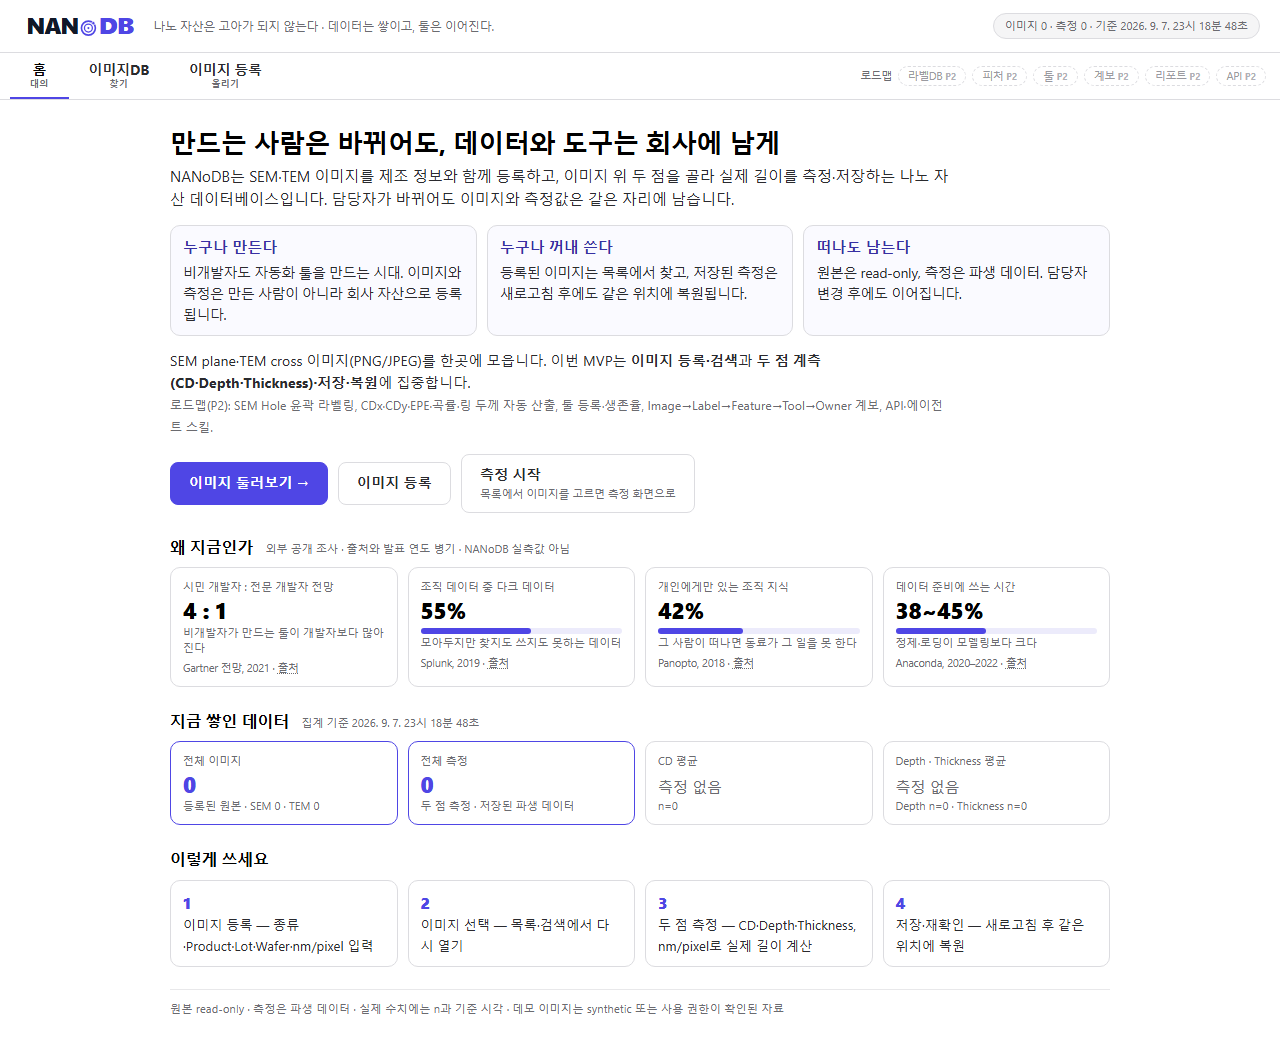
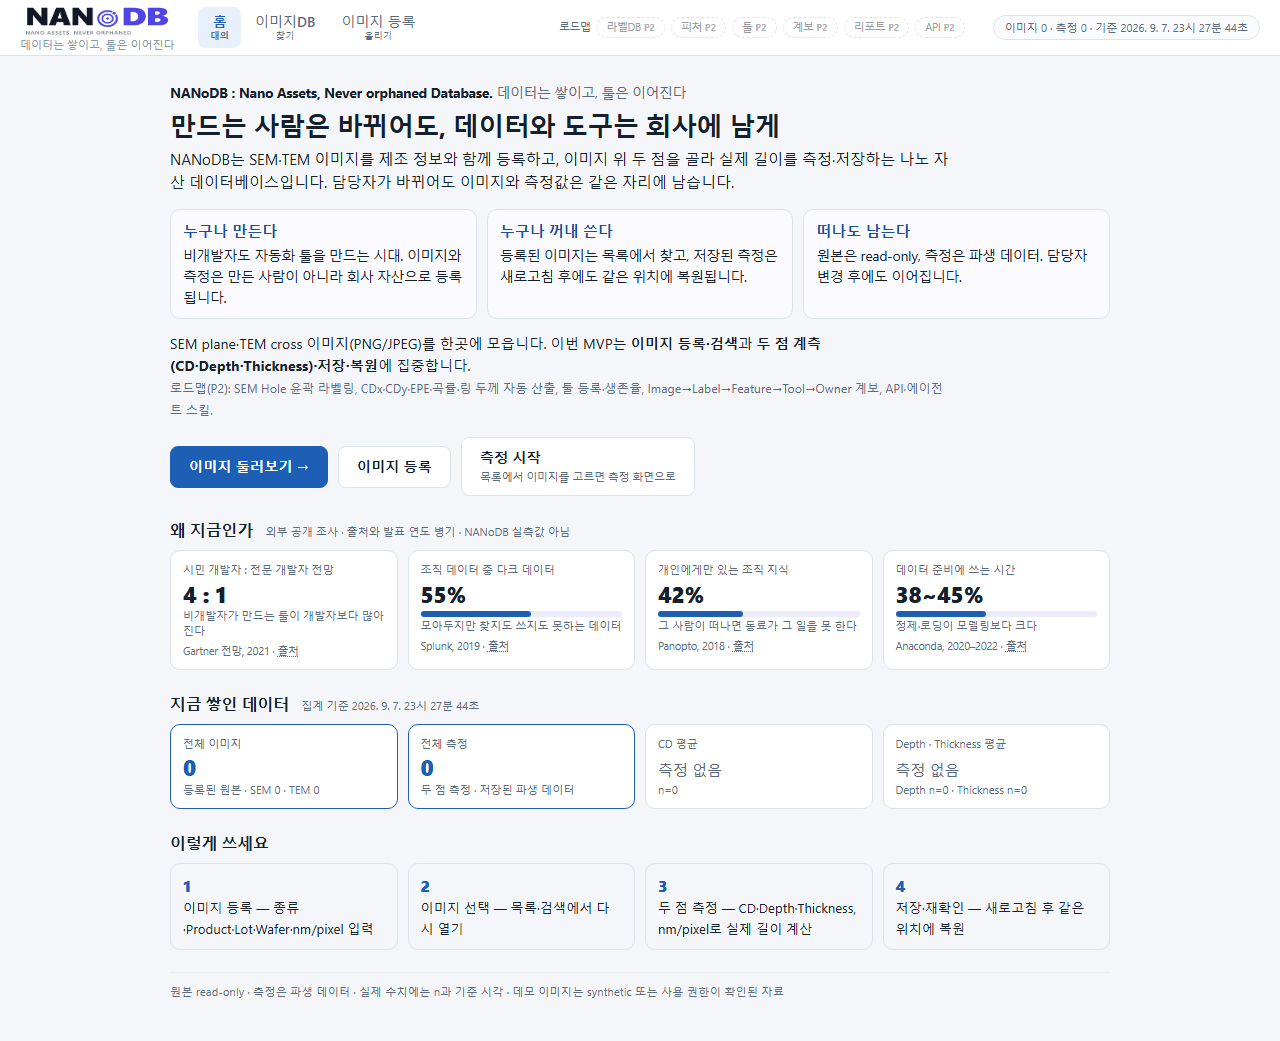
docs(home): follow existing nanodb chrome; drop literal Korean tagline; add live capture
- HOM-002 amended: brand line 'NANoDB : Nano Assets, Never orphaned Database.' + subtitle only
- HOM-004: header/nav keep the existing nanodb app chrome; Home is added as first item
- mockup restyled to app.css tokens (#1d5fb4, 56px topbar); home-live.png + home.reference.js added

diff --git a/requirements/home-tab/home.reference.js b/requirements/home-tab/home.reference.js
@@ -1,0 +1,142 @@
+// Home tab for the hackathon review. Keeps the existing chrome (topbar, mainnav, panel/stat
+// primitives) and only adds a landing page: mission → evidence → what works today → live KPIs
+// → how to use → data policy. Every number in the KPI panels comes from the API; public survey
+// figures are static content and always carry their source and year.
+import { analysis, images as imageApi } from '../api.js';
+import { store } from '../store.js';
+import * as ui from '../ui.js';
+import { el, fmt, fmtDate, loading, mount } from '../ui.js';
+
+const BRAND = {
+  expansion: 'NANoDB : Nano Assets, Never orphaned Database.',
+  subtitle: '데이터는 쌓이고, 툴은 이어진다',
+  headline: '만드는 사람은 바뀌어도, 데이터와 도구는 회사에 남게',
+  lead: 'SEM·TEM 이미지를 제조 정보와 함께 등록하고, 이미지 위에서 측정한 값을 원본·측정자·방법·위치까지 역추적할 수 있게 보관합니다. 담당자가 바뀌어도 이미지와 측정값은 같은 자리에 남습니다.',
+};
+
+const VALUES = [
+  ['누구나 만든다', '비개발자도 자동화 툴을 만드는 시대. 이미지와 측정은 만든 사람이 아니라 회사 자산으로 등록됩니다.'],
+  ['누구나 꺼내 쓴다', '등록된 이미지는 카탈로그에서 찾고, 저장된 측정은 다시 열어도 같은 위치에 복원됩니다.'],
+  ['떠나도 남는다', '원본은 read-only, 측정은 파생 데이터. draft → review → approved 이력이 revision으로 남습니다.'],
+];
+
+// Static, externally published figures. Never mixed with NANoDB measurements.
+const EVIDENCE = [
+  { value: '4 : 1', title: '시민 개발자 : 전문 개발자 전망', meaning: '비개발자가 만드는 툴이 개발자보다 많아진다', source: 'Gartner 전망', year: 2021, url: 'https://kissflow.com/citizen-development/gartner-on-citizen-development/' },
+  { value: '55%', title: '조직 데이터 중 다크 데이터', meaning: '모아두지만 찾지도 쓰지도 못하는 데이터', source: 'Splunk', year: 2019, url: 'https://www.splunk.com/en_us/form/the-state-of-dark-data.html' },
+  { value: '42%', title: '개인에게만 있는 조직 지식', meaning: '그 사람이 떠나면 동료가 그 일을 못 한다', source: 'Panopto', year: 2018, url: 'https://www.panopto.com/resource/ebook/valuing-workplace-knowledge/' },
+  { value: '38~45%', title: '데이터 준비에 쓰는 시간', meaning: '정제·로딩이 모델링보다 크다', source: 'Anaconda', year: '2020–2022', url: 'https://www.bigdatawire.com/2020/07/06/data-prep-still-dominates-data-scientists-time-survey-finds/' },
+];
+
+const STEPS = [
+  ['이미지 등록', '원본 hash 보존 · Product/Lot/Wafer/Die 또는 누락 사유'],
+  ['캘리브레이션', '스케일바 두 점 → nm/px'],
+  ['측정', '선·평행선·원호 annotation → 구조 파라미터 값'],
+  ['검토·승인', '분석가 승인 후 공식값 · revision 보존 · 분석·CSV'],
+];
+
+const ROADMAP = ['Hole 윤곽 라벨링', 'CDx · CDy · EPE · 곡률 · 링 두께 자동 산출', '툴 등록 · 생존율', 'Image → Label → Feature → Tool → Owner 계보', '에이전트 스킬'];
+
+function statTile(value, label, hint, href) {
+  const body = [
+    el('div', { class: 'value' }, value),
+    el('div', { class: 'label' }, label),
+    hint ? el('div', { class: 'faint', style: 'font-size:11px;margin-top:2px' }, hint) : null,
+  ];
+  return href
+    ? el('a', { class: 'panel stat', href, style: 'text-decoration:none;color:inherit' }, body)
+    : el('div', { class: 'panel stat' }, body);
+}
+
+async function loadKpis() {
+  const dash = await analysis.dashboard();
+  const [sem, tem] = await Promise.all([
+    imageApi.list({ image_type: 'SEM', limit: 1 }).catch(() => ({ total: null })),
+    imageApi.list({ image_type: 'TEM', limit: 1 }).catch(() => ({ total: null })),
+  ]);
+  const byStatus = dash.measurements_by_status || {};
+  const approved = byStatus.approved ?? 0;
+  const total = Object.values(byStatus).reduce((a, b) => a + (b || 0), 0);
+  // Per-parameter means over approved measurements only.
+  let params = [];
+  if (store.can('analysis:read')) {
+    const codes = ['CD_TOP', 'CD_BOTTOM', 'PATTERN_PITCH', 'LAYER_THICKNESS', 'TRENCH_DEPTH'];
+    const runs = await Promise.all(codes.map((code) =>
+      analysis.run({ parameter_code: code, statuses: ['approved'] })
+        .then((r) => ({ code, n: r.summary?.count ?? 0, mean: r.summary?.mean ?? null, unit: r.unit }))
+        .catch(() => ({ code, n: 0, mean: null }))));
+    params = runs.filter((r) => r.n > 0).sort((a, b) => b.n - a.n).slice(0, 2);
+  }
+  return { dash, sem: sem.total, tem: tem.total, approved, total, params, asOf: new Date() };
+}
+
+export async function homePage(view) {
+  mount(view, loading('Loading home…'));
+  let k = null; let error = null;
+  try { k = await loadKpis(); } catch (e) { error = e; }
+
+  const hero = el('div', { class: 'panel', style: 'padding:24px 28px;margin-bottom:16px' },
+    el('div', { style: 'display:flex;gap:28px;align-items:center;flex-wrap:wrap' },
+      el('img', { src: '/assets/img/nanodb_logo_horizontal.png', alt: 'NANoDB', style: 'height:88px;width:auto' }),
+      el('div', { style: 'flex:1;min-width:320px' },
+        el('div', { class: 'subtle', style: 'font-weight:600;color:var(--ink)' }, BRAND.expansion),
+        el('div', { class: 'subtle' }, BRAND.subtitle),
+        el('h1', { style: 'margin:10px 0 6px;font-size:24px;letter-spacing:-.2px' }, BRAND.headline),
+        el('p', { style: 'margin:0;max-width:760px;color:var(--ink-soft)' }, BRAND.lead))),
+    el('div', { class: 'grid cols-3', style: 'margin-top:18px' },
+      VALUES.map(([title, text]) => el('div', { class: 'panel', style: 'padding:12px 14px;background:var(--panel-2)' },
+        el('div', { style: 'font-weight:650;color:var(--accent);margin-bottom:3px' }, title),
+        el('div', { class: 'subtle' }, text)))),
+    el('div', { class: 'row', style: 'margin-top:18px;gap:8px;flex-wrap:wrap' },
+      el('a', { class: 'btn primary', href: '#/catalog' }, 'Browse catalog →'),
+      store.can('image:create') ? el('a', { class: 'btn', href: '#/upload' }, 'Register image') : null,
+      store.can('measurement:read') ? el('a', { class: 'btn', href: '#/review' }, 'Review queue') : null,
+      store.can('analysis:read') ? el('a', { class: 'btn', href: '#/analysis' }, 'Analysis') : null,
+      el('span', { class: 'faint', style: 'font-size:12px;margin-left:6px' },
+        '지금 동작: 이미지 등록 · 캘리브레이션 · annotation 측정 · 검토/승인 · 분석 · CSV · API 토큰')));
+
+  const evidence = ui.panel('왜 지금인가',
+    el('div', {},
+      el('div', { class: 'grid', style: 'grid-template-columns:1fr 1fr' }, EVIDENCE.map((e) =>
+        el('div', { class: 'panel stat' },
+          el('div', { class: 'value' }, e.value),
+          el('div', { class: 'label' }, e.title),
+          el('div', { class: 'faint', style: 'font-size:11px;margin-top:2px' }, e.meaning),
+          el('div', { class: 'faint', style: 'font-size:11px;margin-top:6px' },
+            `${e.source}, ${e.year} · `, el('a', { href: e.url, target: '_blank', rel: 'noopener' }, '출처'))))),
+      el('div', { class: 'faint', style: 'font-size:11px;margin-top:8px' },
+        '외부 공개 조사 수치입니다. 발표 연도를 함께 표기하며 NANoDB 실측값과 섞지 않습니다.')));
+
+  let kpiBody;
+  if (error) {
+    kpiBody = ui.notice(error.message || String(error), 'danger', 'KPI를 불러오지 못했습니다');
+  } else {
+    const typeHint = (k.sem == null || k.tem == null) ? 'registered originals' : `SEM ${fmt(k.sem, 0)} · TEM ${fmt(k.tem, 0)}`;
+    const paramTiles = k.params.length
+      ? k.params.map((p) => statTile(`${fmt(p.mean, 1)} ${ui.unitLabel(p.unit) || 'nm'}`, `${p.code} mean`, `n=${p.n} · approved only`, '#/analysis'))
+      : [statTile('—', 'Parameter mean', k.total ? 'no approved measurements yet' : 'no measurements yet · n=0', '#/analysis')];
+    kpiBody = el('div', { class: 'grid', style: 'grid-template-columns:1fr 1fr' },
+      statTile(fmt(k.dash.image_count ?? 0, 0), 'Images', typeHint, '#/catalog'),
+      statTile(fmt(k.approved, 0), 'Approved measurements', `${fmt(k.total, 0)} total · ${fmt(k.dash.review_pending ?? 0, 0)} awaiting review`, '#/review'),
+      ...paramTiles);
+  }
+  const kpis = ui.panel(`지금 쌓인 데이터 · 집계 ${k ? fmtDate(k.asOf) : '—'}`, kpiBody,
+    [el('a', { class: 'btn small', href: '#/dashboard' }, 'Dashboard')]);
+
+  const steps = ui.panel('이렇게 쓰세요',
+    el('div', { class: 'grid cols-4' }, STEPS.map(([title, text], i) =>
+      el('div', { class: 'panel', style: 'padding:12px 14px' },
+        el('div', { style: 'font-weight:700;color:var(--accent);font-size:16px' }, String(i + 1)),
+        el('div', { style: 'font-weight:600' }, title),
+        el('div', { class: 'subtle' }, text)))));
+
+  const roadmap = ui.panel('로드맵 (미구현 · P2)',
+    el('div', { class: 'row', style: 'gap:6px;flex-wrap:wrap' },
+      ROADMAP.map((t) => ui.badge(t, '', '·'))));
+
+  const policy = el('div', { class: 'faint', style: 'font-size:12px;margin-top:14px' },
+    '원본 이미지 hash 불변 · annotation·측정은 파생 데이터 · 승인 전 값은 초안 · 모든 수치에 n과 기준 시각 · 데모 데이터는 synthetic 또는 사용 권한이 확인된 자료');
+
+  mount(view, hero, el('div', { class: 'grid cols-2', style: 'margin-bottom:16px' }, evidence, kpis), steps,
+    el('div', { style: 'margin-top:16px' }, roadmap), policy);
+}

diff --git a/requirements/home-tab/home-tab-mockup.html b/requirements/home-tab/home-tab-mockup.html
@@ -10,13 +10,14 @@
   - KPI 는 /api/summary 응답으로만 채운다 (예시값 금지, HOM-024). 이 파일은 fetch 실패 시 빈 상태(0 / n=0 / 측정 없음)를 보여준다.
   - ?state=demo  : 데모 후 상태 예시 (스크린샷용, 값은 "예시 화면" 라벨과 함께만 표시)
   - ?state=empty : 빈 DB 상태
-  - 헤더 로고는 태그라인 없는 assets/logo/nanodb_logo_horizontal_notag.svg (28px 높이에서 태그라인이 뭉개지므로). 태그라인 포함 PNG는 표지·README용.
+  - 헤더는 기존 nanodb 앱 chrome(56px topbar, 로고+부제, pill 내비, 파란 #1d5fb4)을 따른다. 로고는 assets/logo/nanodb_logo_horizontal.png 그대로.
+  - 한국어 직역(고아…)은 표시하지 않는다. 브랜드 줄은 'NANoDB : Nano Assets, Never orphaned Database.' + 부제만.
 -->
 <style>
   :root{
-    --blue:#4f46e5; --blue-rgb:79,70,229; --blue-d:#3730a3;
-    --bg:#ffffff; --surface:#f5f5f6; --border:#dcdce0; --divider:#e8e8ea;
-    --text:#2a2a2e; --bright:#000000; --muted:#6b6b70; --ok:#1e7d32; --warn:#a67c00;
+    --blue:#1d5fb4; --blue-rgb:29,95,180; --blue-d:#17509c; --accent-soft:#e8f0fb;
+    --bg:#f4f6f9; --surface:#fafbfc; --border:#dde3ea; --divider:#e8edf2;
+    --text:#16202c; --bright:#16202c; --muted:#5a6b7d; --ok:#1e7d32; --warn:#a67c00;
   }
   *{box-sizing:border-box}
   [hidden]{display:none!important}
@@ -25,22 +26,23 @@
     font-size:15px;line-height:1.55;font-variant-numeric:tabular-nums}
   a{color:inherit;text-decoration:none}
   /* ---- header (HOM-001~003, 006) ---- */
-  .hdr{display:flex;align-items:center;gap:12px;padding:12px 20px;border-bottom:1px solid var(--border);background:#fff}
-  .hdr .logo img{height:28px;display:block}
+  .hdr{display:flex;align-items:center;gap:24px;padding:0 20px;height:56px;border-bottom:1px solid var(--border);background:#fff;position:sticky;top:0}
+  .hdr .logo{display:flex;flex-direction:column;line-height:1.15}.hdr .logo img{height:36px;display:block}.hdr .logo small{font-size:11px;color:#8a99a8}
   .hdr .sub{font-size:.78rem;color:var(--muted)}
   .hdr .right{margin-left:auto;display:flex;gap:10px;align-items:center;font-size:.74rem;color:var(--muted)}
   .status{border:1px solid var(--border);border-radius:999px;padding:3px 11px;background:var(--surface);white-space:nowrap}
   /* ---- nav (HOM-004, 005) ---- */
-  .tabs{display:flex;gap:0;border-bottom:1px solid var(--border);padding:0 10px;background:#fff;overflow-x:auto}
-  .tab{padding:8px 20px 7px;font-size:.92rem;border-bottom:2px solid transparent;color:var(--text);white-space:nowrap;display:flex;flex-direction:column;align-items:center;line-height:1.25}
+  .tabs{display:flex;gap:2px;flex:1;background:#fff;padding:0}
+  .tab{padding:7px 12px;font-size:14px;border-radius:8px;color:#5a6b7d;white-space:nowrap;display:flex;flex-direction:column;align-items:center;line-height:1.2}
   .tab small{font-size:.62rem;color:var(--muted)}
-  .tab.on{border-bottom-color:var(--blue);color:var(--bright);font-weight:700}
-  .tab.core{font-weight:700}
+  .tab.on{background:var(--accent-soft);color:var(--blue);font-weight:600}
+  .tab.core{font-weight:500}
   .roadmap{display:flex;gap:6px;align-items:center;margin-left:auto;padding:6px 4px;font-size:.7rem;color:var(--muted)}
   .chip{border:1px dashed var(--border);border-radius:999px;padding:1px 9px;color:#9a9aa0;cursor:default;user-select:none}
   .chip b{font-weight:700;color:#b0b0b6;margin-left:3px;font-size:.62rem}
   /* ---- home body ---- */
   .home{width:100%;max-width:980px;margin:0 auto;padding:26px 20px 40px}
+  .brandline{font-size:.9rem;color:var(--muted);margin-bottom:6px}.brandline b{color:var(--text)}
   h1{font-size:1.7rem;line-height:1.3;margin:0 0 6px;color:var(--bright)}
   .lead{max-width:780px;margin:0 0 14px}
   .values{display:grid;grid-template-columns:repeat(3,1fr);gap:10px;margin:14px 0}
@@ -74,7 +76,7 @@
   .badge{display:inline-block;font-size:.66rem;padding:0 6px;border-radius:8px;background:#f3f4f6;color:#555;margin-left:6px;vertical-align:middle}
   @media (max-width:900px){.cards,.steps,.values{grid-template-columns:1fr 1fr}}
   @media (max-width:768px){
-    .hdr{padding:8px 12px}.hdr .sub,.hdr .right span:not(.status){display:none}
+    .hdr{padding:8px 12px}.hdr .logo small,.hdr .right span:not(.status){display:none}
     .tab{font-size:.78rem;padding:9px 10px}.tab small{display:none}.roadmap{display:none}
     .cards,.steps,.values{grid-template-columns:1fr}h1{font-size:1.3rem}.lead{display:none}
   }
@@ -84,15 +86,8 @@
 
 <!-- 헤더: 로고(홈), 확장명/부제, 상태 요약. 로그인·역할 없음 -->
 <header class="hdr">
-  <a class="logo" href="/" aria-label="NANoDB 홈"><img src="../../assets/logo/nanodb_logo_horizontal_notag.svg" alt="NANoDB — Nano Assets, Never orphaned Database"></a>
-  <span class="sub">나노 자산은 고아가 되지 않는다 · 데이터는 쌓이고, 툴은 이어진다.</span>
-  <div class="right">
-    <span class="status" id="hdr-status">이미지 — · 측정 — · 기준 —</span>
-  </div>
-</header>
-
-<!-- 내비게이션: 구현된 3개만 탭. 로드맵은 비활성 칩 (클릭 없음) -->
-<nav class="tabs" aria-label="주 내비게이션">
+  <a class="logo" href="/" aria-label="NANoDB 홈"><img src="../../assets/logo/nanodb_logo_horizontal.png" alt="NANoDB — Nano Assets, Never orphaned Database"><small>데이터는 쌓이고, 툴은 이어진다</small></a>
+  <nav class="tabs" aria-label="주 내비게이션">
   <a class="tab on" href="/" aria-current="page"><span>홈</span><small>대의</small></a>
   <a class="tab core" href="/images"><span>이미지DB</span><small>찾기</small></a>
   <a class="tab core" href="/images/new"><span>이미지 등록</span><small>올리기</small></a>
@@ -105,10 +100,13 @@
     <span class="chip" aria-disabled="true">리포트<b>P2</b></span>
     <span class="chip" aria-disabled="true">API<b>P2</b></span>
   </div>
-</nav>
+  </nav>
+  <div class="right"><span class="status" id="hdr-status">이미지 — · 측정 — · 기준 —</span></div>
+</header>
 
 <main class="home">
-  <!-- 1. 대의와 제품 한 문장 (HOM-008) -->
+  <!-- 1. 대의와 제품 한 문장 (HOM-002, 008) -->
+  <div class="brandline"><b>NANoDB : Nano Assets, Never orphaned Database.</b> <span>데이터는 쌓이고, 툴은 이어진다</span></div>
   <h1>만드는 사람은 바뀌어도, 데이터와 도구는 회사에 남게</h1>
   <p class="lead">NANoDB는 SEM·TEM 이미지를 제조 정보와 함께 등록하고, 이미지 위 두 점을 골라 실제 길이를 측정·저장하는 나노 자산 데이터베이스입니다. 담당자가 바뀌어도 이미지와 측정값은 같은 자리에 남습니다.</p>
 

diff --git a/requirements/home-tab-requirements.md b/requirements/home-tab-requirements.md
@@ -28,9 +28,9 @@ PDF가 제시한 전체 제품 온톨로지 `Image → Label → Feature → Too
 ### 3.1 헤더와 내비게이션
 
 - **HOM-001:** NANoDB 로고를 선택하면 홈(`/`)으로 이동해야 한다.
-- **HOM-002:** 브랜드 확장명 `Nano Assets, Never orphaned Database`, 한국어 의미 `나노 자산은 고아가 되지 않는다`, 부제 `데이터는 쌓이고, 툴은 이어진다.`를 데스크톱 헤더 또는 히어로 영역에 표시해야 한다.
+- **HOM-002 (2026-09-07 개정):** 브랜드 줄 `NANoDB : Nano Assets, Never orphaned Database.`와 부제 `데이터는 쌓이고, 툴은 이어진다`를 데스크톱 헤더 또는 히어로 영역에 표시해야 한다. 한국어 직역(`나노 자산은 고아가 되지 않는다`)은 화면에 표시하지 않는다(구두 설명 전용).
 - **HOM-003:** 헤더 상태 영역에는 실제 이미지 수, 실제 측정 수, 집계 기준 시각을 표시해야 한다.
-- **HOM-004:** 주 내비게이션은 최소 `홈`, `이미지DB`, `이미지 등록`을 제공하고 현재 위치를 표시해야 한다.
+- **HOM-004:** 주 내비게이션은 최소 `홈`, `이미지DB`, `이미지 등록`을 제공하고 현재 위치를 표시해야 한다. 헤더·내비의 모양은 기존 nanodb 앱의 chrome(56px topbar, 로고+부제, pill 내비, `app.css` 토큰)을 그대로 따르고, 홈 탭은 첫 항목으로 추가한다 — 헤더를 새로 디자인하지 않는다.
 - **HOM-005:** LabelDB, Feature, Tool, Owner/Lineage, Report, API를 전체 제품 방향으로 노출할 경우, 미구현 항목은 `준비 중` 또는 `P2`로 표시하고 클릭 동작을 제공하지 않아야 한다.
 - **HOM-006:** 로그인, 역할 배지와 권한별 메뉴는 표시하지 않아야 한다. 정적인 발표용 역할 문구도 실제 로그인 상태로 오인되지 않게 해야 한다.
 
@@ -111,12 +111,20 @@ PDF가 제시한 전체 제품 온톨로지 `Image → Label → Feature → Too
 | API · 에이전트 스킬 | P2 로드맵, 내부 MVP API만 사용 |
 | 1,240 · 812 · 38.2 nm 등 | 예시값이므로 실제 KPI에 사용 금지 |
 
-## 7. 홈 탭 시안 (2026-09-07 추가)
+## 7. 홈 탭 시안 (2026-09-07 추가 · 같은 날 개정: 기존 nanodb chrome 유지)
 
 > 시안 파일: [`home-tab/home-tab-mockup.html`](home-tab/home-tab-mockup.html) — 정적 HTML 한 장, 외부 의존 없음. 브라우저에서 열면 그대로 홈 레이아웃이며, `/api/summary`가 있으면 실제 KPI를 채우고 없으면 빈 상태(`0`, `n=0`, `측정 없음`)를 보여준다.
 > 캡처 재생성: `python home-tab/shots.py` (Playwright). 아래 이미지는 이 시안의 캡처이며 데이터 값은 요구사항 HOM-024에 따라 예시가 아닌 **빈 상태** 또는 **"예시 화면" 라벨이 붙은 상태**만 담았다.
 
 ### 7.1 캡처
+
+**실제 실행 화면 (기존 nanodb 앱에 Home 탭을 추가한 결과, `home.reference.js`)**
+
+![홈 실행 화면](home-tab/home-live.png)
+
+참고 구현: [`home-tab/home.reference.js`](home-tab/home.reference.js) — 기존 `el/panel/stat/grid` 프리미티브만 사용, 헤더 변경은 로고 이미지·부제·Home 항목 추가뿐. KPI는 `/dashboard`·`/images`·`/analysis`(approved만) 호출.
+
+**정적 시안 (MVP용, 같은 chrome 토큰)**
 
 | 상태 | 이미지 | 설명 |
 | --- | --- | --- |
@@ -151,10 +159,10 @@ PDF가 제시한 전체 제품 온톨로지 `Image → Label → Feature → Too
 
 | 시안 영역 | 요구사항 | 구현 메모 |
 | --- | --- | --- |
-| 헤더 로고 → `/` | HOM-001 | 헤더는 태그라인 없는 `assets/logo/nanodb_logo_horizontal_notag.svg`(높이 28px). 태그라인 포함 PNG는 28px에서 글자가 뭉개져 표지·README 전용. 파비콘 `assets/logo/nanodb_favicon.svg` |
-| 헤더 슬로건 `나노 자산은 고아가 되지 않는다 · 데이터는 쌓이고, 툴은 이어진다.` | HOM-002 | 768px 이하 숨김 |
+| 헤더 로고 → `/` | HOM-001 | `assets/logo/nanodb_logo_horizontal.png` 그대로, 높이 36px (기존 topbar 56px 안). 파비콘 `assets/logo/nanodb_favicon.svg` |
+| 헤더 부제 `데이터는 쌓이고, 툴은 이어진다` · 히어로 브랜드 줄 `NANoDB : Nano Assets, Never orphaned Database.` | HOM-002 | 한국어 직역 없음. 768px 이하 부제 숨김 |
 | 헤더 상태 pill `이미지 N · 측정 N · 기준 시각` | HOM-003 | `/api/summary`만 사용 |
-| 탭 `홈 · 이미지DB · 이미지 등록` + 힌트 | HOM-004 | 밑줄형 활성 표시, `aria-current="page"` |
+| 탭 `홈 · 이미지DB · 이미지 등록` + 힌트 | HOM-004 | 기존 nanodb pill 내비(활성 = 연한 파랑 배경), `aria-current="page"` |
 | 로드맵 칩 `라벨DB · 피처 · 툴 · 계보 · 리포트 · API` (P2) | HOM-005 | 점선 테두리 `span`, `aria-disabled`, href 없음. 탭 줄 오른쪽에 두어 탭과 구분 |
 | 로그인·역할 없음 | HOM-006 | 헤더 우측에는 상태 pill만 |
 | 본문 8순서 | HOM-007 | 대의 → 세 가치 → 범위 → CTA → 공개 통계 → KPI → 사용 흐름 → 정책 |
@@ -171,9 +179,9 @@ PDF가 제시한 전체 제품 온톨로지 `Image → Label → Feature → Too
 
 | 토큰 | 값 | 용도 |
 | --- | --- | --- |
-| `--blue` | `#4f46e5` | 활성 탭 밑줄, primary CTA, KPI 강조, 통계 막대 |
-| `--bright` / `--text` / `--muted` | `#000` / `#2a2a2e` / `#6b6b70` | 제목 / 본문 / 보조 |
-| `--border` / `--surface` | `#dcdce0` / `#f5f5f6` | 카드 테두리 / 상태 pill 배경 |
+| `--accent` | `#1d5fb4` (기존 `app.css`) | 활성 탭 배경, primary CTA, KPI 강조, 통계 막대 |
+| `--ink` / `--ink-soft` / `--ink-faint` | `#16202c` / `#5a6b7d` / `#8a99a8` (기존 `app.css`) | 제목·본문 / 보조 / 힌트 |
+| `--line` / `--panel-2` / `--bg` | `#dde3ea` / `#fafbfc` / `#f4f6f9` (기존 `app.css`) | 카드 테두리 / 칩 배경 / 페이지 배경 |
 | 폰트 | Pretendard → Segoe UI → Noto Sans KR → Malgun Gothic, `tabular-nums` | 숫자 자리폭 고정 |
 | 폭 | 본문 `max-width: 980px`, 문단 `780px` | 1280 시연 화면 기준 |
 | 카드 | `border 1px`, `radius 10px`, hover 시 테두리 `--blue` | 그림자 없음 |
